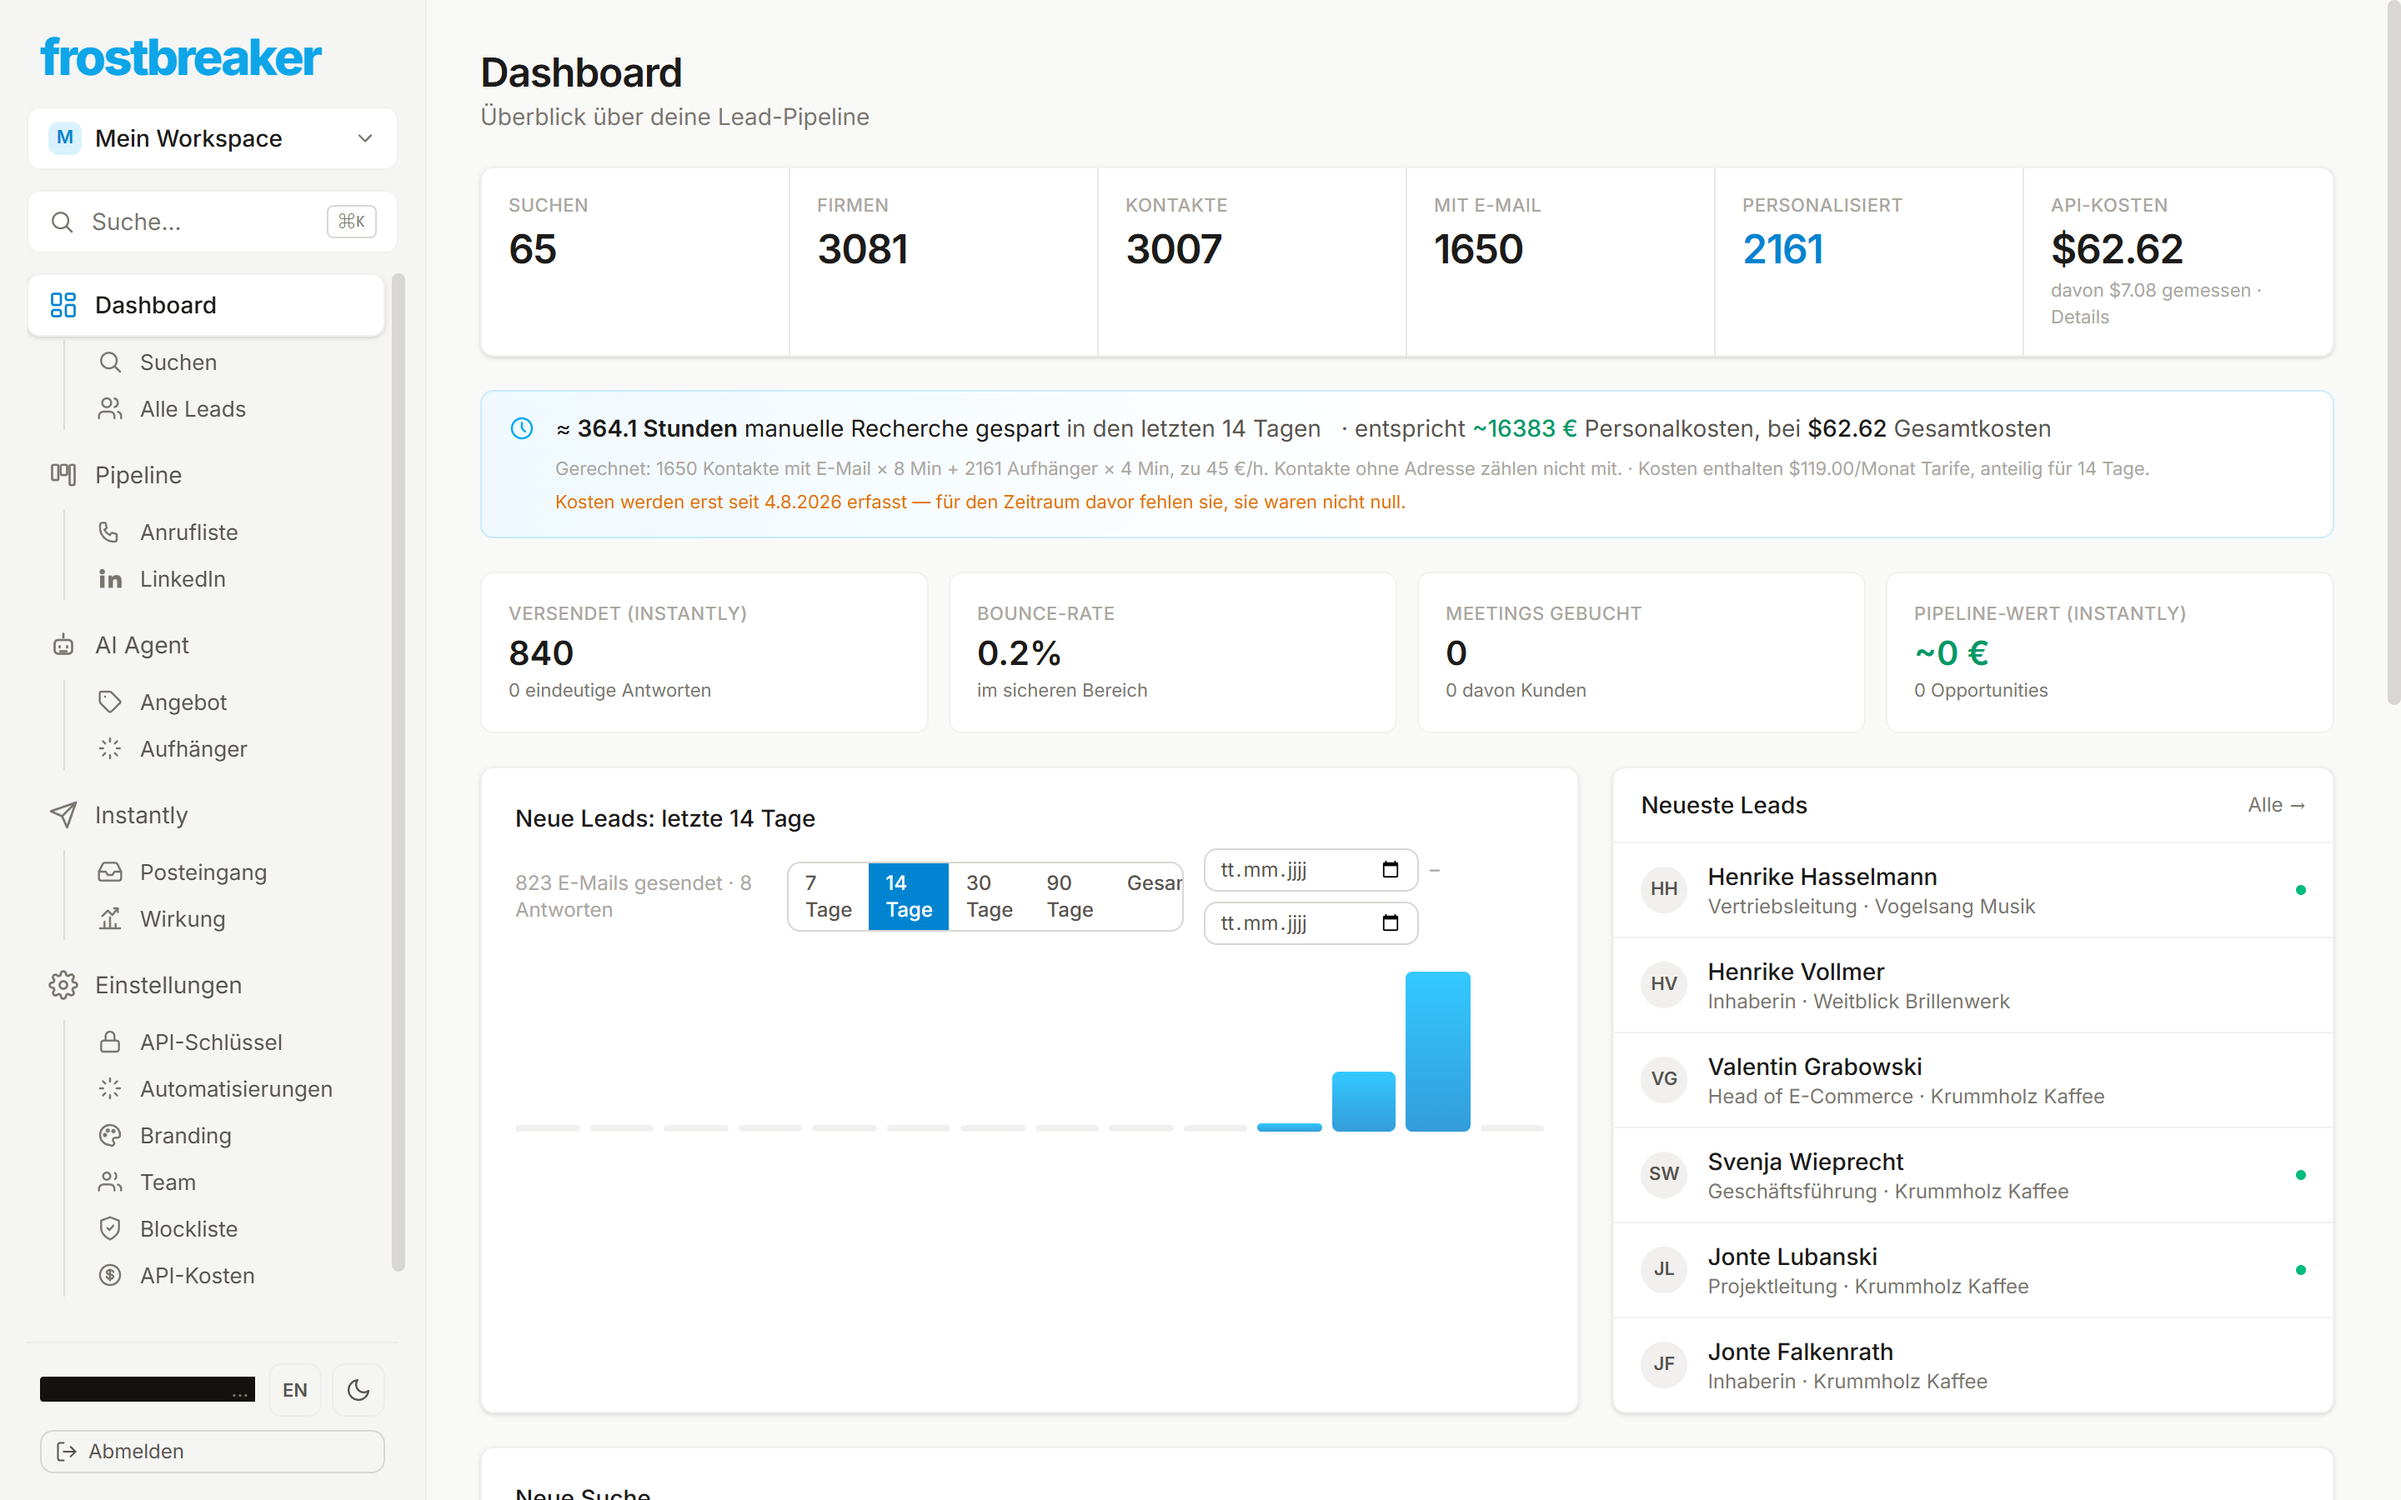
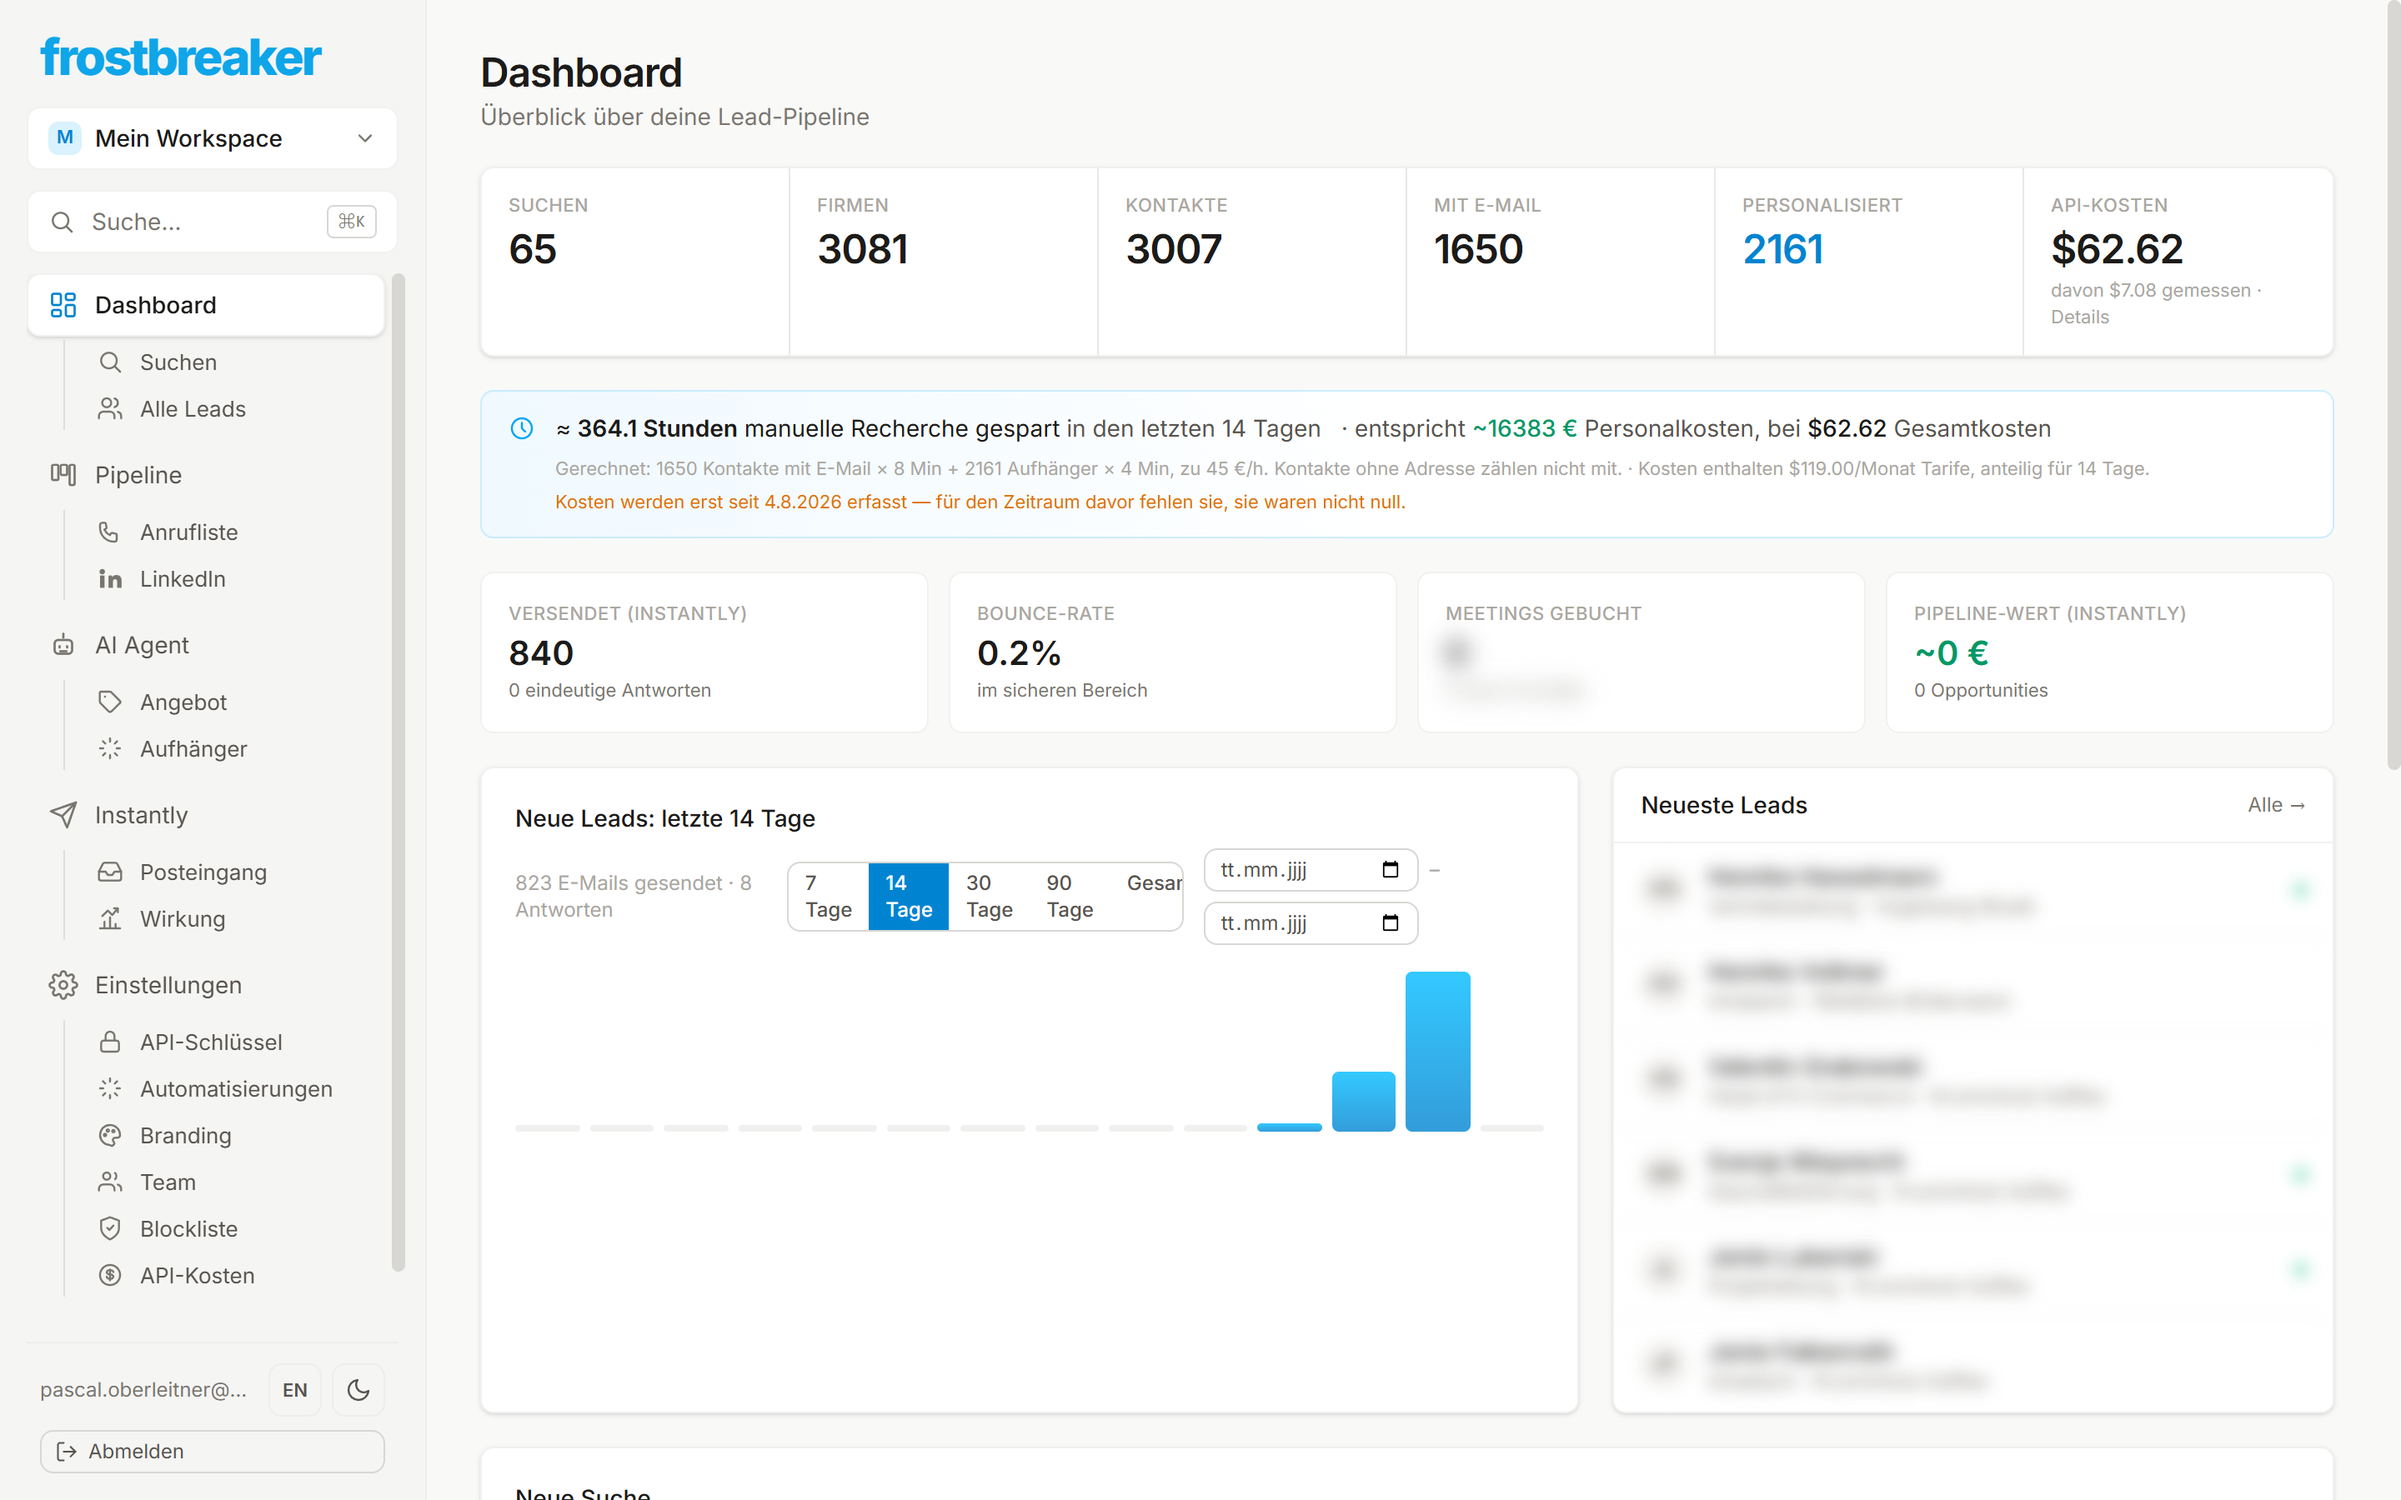
docs(bilder): Lead-Eintraege und gebuchte Termine unscharf
Zwei Sachen sollen zu SEHEN, aber nicht zu LESEN sein.

Die Lead-Eintraege tragen zwar schon Decknamen, verraten in der Masse aber
weiter Nische und Markt. Unscharf bleibt die Struktur sichtbar -- Logo,
Kontaktzahl, Suche, Spalten -- ohne dass jemand die Liste abschreiben kann.

Die Kachel "Termine" steht heute auf null. Sie gehoert trotzdem ins Bild,
weil sie zeigt, WORAN gemessen wird; die Zahl selbst sagt einem Fremden
nichts ueber die Arbeit. Der Satz daneben bleibt lesbar und ist ohnehin das
Argument: "Eine Antwortquote allein ist die falsche Zielgroesse -- eine
Fassung kann fuehren und trotzdem nur Absagen sammeln."

Unscharf und nicht geschwaerzt: ein schwarzer Balken behauptet "hier stand
etwas Geheimes", eine Unschaerfe zeigt die Struktur und haelt den Inhalt
draussen. Betroffen sind Dashboard, Alle Leads und Wirkung.

diff --git a/README.md b/README.md
@@ -181,4 +181,6 @@ cd apps/worker && pip install -e ".[dev]" && python -m pytest
 ## Zu den Bildern
 
 Echte Bildschirme aus dem laufenden Betrieb. Alle Namen, Firmen, Domains und
-Adressen darin sind ersetzt — auf keinem Bild steht ein echter Kontakt.
+Adressen darin sind ersetzt — auf keinem Bild steht ein echter Kontakt. Die
+Lead-Einträge und die Zahl der gebuchten Termine sind zusätzlich unscharf:
+sichtbar bleibt, *was* dort steht, nicht *wer*.
